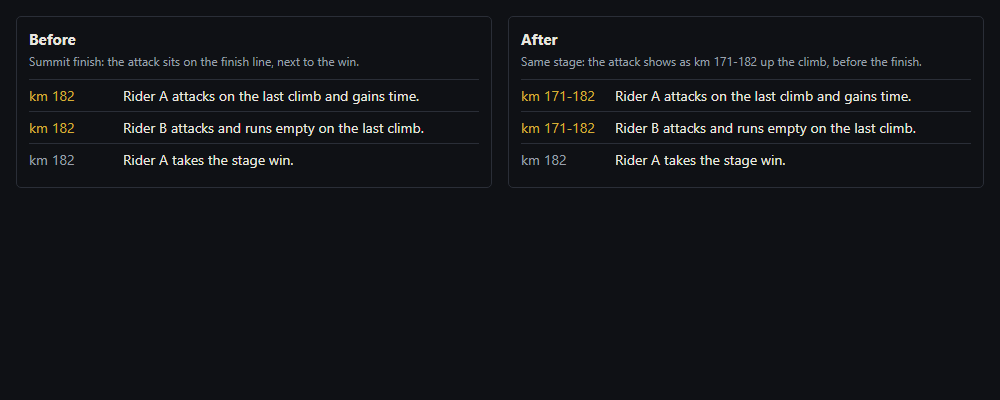
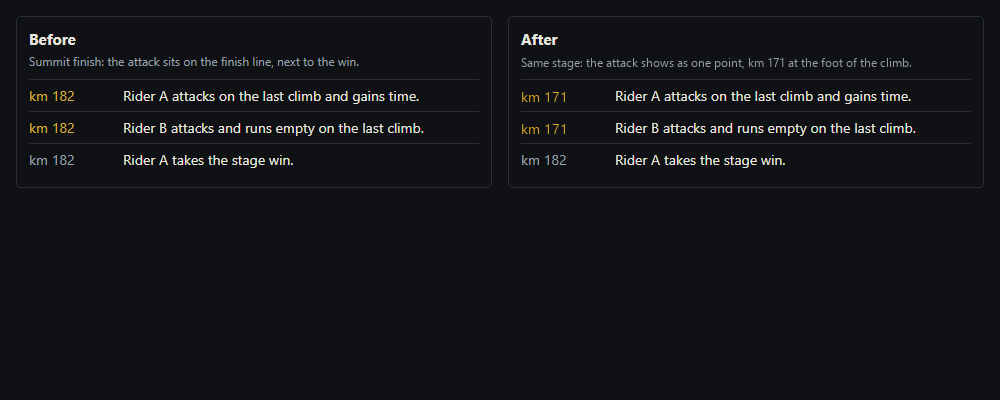
fix(race-film): stigningens angreb vises paa ét punkt (foden), aldrig som interval (Refs #7965)
Ejerens beslutning 12/11: ingen tekst i loebsfilmen vises som interval, kun
tidspunktet hvor handlingen skete. all_out_gain/all_out_cracked paa en
topankomst faar km = stigningens fod og intet km_span. recorded_km (toppen)
bevares til opgave-opslaget. Filmen har ingen loebstid pr. km, saa der vises
intet nyt tidsstempel. Andre linjers spaend (#6350) og mellemtider er uaendrede.

Changed region(s): [[0.527, 0.12, 0.93, 0.18], [0.527, 0.21, 0.589, 0.27], [0.527, 0.3, 0.589, 0.33]]

diff --git a/frontend/src/lib/stageTimelineKmSpan.test.ts b/frontend/src/lib/stageTimelineKmSpan.test.ts
@@ -6,7 +6,7 @@ import assert from "node:assert/strict";
 import { honestTimelineEvents, honestKmResolver, lossEntriesWithFilmKm, filmKmValue, exactEventKm } from "./stageTimelineKmSpan.ts";
 import { buildFilmTimeline, eventsPlayedUpTo } from "./stageTimelineFilm.js";
 import { catchActorCopy, findMorningCatch } from "./raceCatchActor.ts";
-import { buildOwnTimeLoss } from "./stageSplitTimes.ts";
+import { buildOwnTimeLoss, buildSplitTimes } from "./stageSplitTimes.ts";
 import { withEventPlaces } from "../../../backend/lib/raceTimeline.js";
 
 type Ev = { km: number; type: string; params?: Record<string, unknown>; exact_km?: number; recorded_km?: number; km_span?: { from: number; to: number } };
@@ -267,22 +267,24 @@ const climbFinish: Ev[] = [
 ];
 const finalClimb = [{ crest_km: 182, length_km: 11 }];
 
-test("#7965 an all-out line stamped on a summit finish shows the climb as a span, before the finish", () => {
+test("#7965 an all-out line stamped on a summit finish shows ONE point at the foot of the climb (never a span), before the finish", () => {
   const shown = honestTimelineEvents(climbFinish, { ...V4, climbs: finalClimb }) as Ev[];
   for (const type of ["all_out_gain", "all_out_cracked"]) {
     const line = shown.find((e) => e.type === type)!;
-    assert.deepEqual(line.km_span, { from: 171, to: 182 });
-    assert.equal(line.km, 171);
-    assert.equal(line.recorded_km, 182);
-    assert.equal(filmKmValue(line, fmt), "171-182");
+    assert.equal(line.km_span, undefined, "no interval (owner 12/11)");
+    assert.equal(line.km, 171, "km = foot = crest_km - length_km");
+    assert.equal(line.recorded_km, 182, "the engine's summit km is kept for the task lookup");
+    assert.equal(filmKmValue(line, fmt), "171");
     assert.ok(shown.indexOf(line) < shown.findIndex((e) => e.type === "finish"));
   }
 });
 
-test("#7965 without the climb in the profile the previous known point opens the span", () => {
+test("#7965 without the climb in the profile the previous known point is the single point", () => {
   const shown = honestTimelineEvents(climbFinish, V4) as Ev[];
   const line = shown.find((e) => e.type === "all_out_gain")!;
-  assert.deepEqual(line.km_span, { from: 150, to: 182 });
+  assert.equal(line.km_span, undefined);
+  assert.equal(line.km, 150);
+  assert.equal(filmKmValue(line, fmt), "150");
 });
 
 test("#7965 a stage whose profile has no climb ending at the finish is unchanged", () => {
@@ -316,10 +318,22 @@ test("#7965 other event types and the rest of a summit finish stay as they were"
 test("#7965 the resolver (split times, story) gives the same km as the film line", () => {
   const resolve = honestKmResolver(climbFinish, { ...V4, climbs: finalClimb });
   const shown = resolve(climbFinish[4]);
-  assert.deepEqual(shown.km_span, { from: 171, to: 182 });
+  assert.equal(shown.km_span, undefined);
+  assert.equal(shown.km, 171);
 });
 
-test("#7965 the loss list shows the same span as the film line", () => {
+test("#7965 the loss list shows the same single point as the film line", () => {
   const entries = lossEntriesWithFilmKm(climbFinish, [{ type: "event", km: 182, riderId: "r2", event: climbFinish[4] }], { ...V4, climbs: finalClimb });
-  assert.deepEqual(entries[0].shown.km_span, { from: 171, to: 182 });
+  assert.equal(entries[0].shown.km_span, undefined);
+  assert.equal(entries[0].shown.km, 171);
+});
+
+test("#7965 split times (mellemtider) are unchanged: the display change never touches the raw timeline", () => {
+  const before = JSON.parse(JSON.stringify(buildSplitTimes(climbFinish as never, { ownRiderIds: [] })));
+  const snapshot = JSON.parse(JSON.stringify(climbFinish));
+  honestTimelineEvents(climbFinish, { ...V4, climbs: finalClimb });
+  honestKmResolver(climbFinish, { ...V4, climbs: finalClimb })(climbFinish[3]);
+  assert.deepEqual(climbFinish, snapshot, "raw events are not mutated");
+  assert.deepEqual(buildSplitTimes(climbFinish as never, { ownRiderIds: [] }), before);
+  assert.ok(before.every((p: { km: number }) => p.km !== 171), "no split point at the foot");
 });

diff --git a/frontend/src/lib/stageTimelineKmSpan.ts b/frontend/src/lib/stageTimelineKmSpan.ts
@@ -12,7 +12,9 @@
 // #7965: motoren stempler "alt ud"/angreb på en stigning (all_out_gain,
 // all_out_cracked) ved stigningens SLUT. Ved en topankomst er det målstregen,
 // så linjen stod på stregen, selv om angrebet skete op ad stigningen. Filmen
-// viser den som et ærligt spænd fra foden til toppen. Kun visning.
+// viser den på ÉT punkt, stigningens fod (aldrig som interval, ejer 12/11):
+// der hvor handlingen starter. Kendes foden ikke, bruges forrige kendte punkt.
+// Filmen har ingen løbstid pr. km, så der vises intet nyt klokkeslæt. Kun visning.
 //
 // #6294: samme indgang fjerner de "indhentninger" som var en samling af
 // udbruddet (withoutRegroupCatches), så film, mærker og gemte flag fortæller
@@ -134,7 +136,8 @@ function spanResolver(kept: readonly SpanTimelineEvent[], { timelineVersion = nu
       if (stamped != null && stamped >= finishKm) {
         // Kender profilen stigninger, kræves en der slutter her (ellers er det ikke en topankomst).
         const from = climbs ? climbFoot(stamped) : previousAnchor(stamped);
-        if (from != null && from < stamped) return { event: { ...event, km: from, recorded_km: stamped, km_span: { from, to: stamped } }, spanned: true };
+        // Ét punkt: km = foden, INTET km_span. recorded_km (toppen) bevares til opgave-opslaget.
+        if (from != null && from < stamped) return { event: { ...event, km: from, recorded_km: stamped }, spanned: true };
       }
     }
     const exact = exactEventKm(event);

diff --git a/frontend/src/lib/stageTimelineFilm.test.js b/frontend/src/lib/stageTimelineFilm.test.js
@@ -2,7 +2,7 @@ import test from "node:test";
 import assert from "node:assert/strict";
 import {
   kmToX, xToKm, buildFilmTimeline, eventsPlayedUpTo, describeEvent, climbMarkerHeight, altitudeAtKm,
-  collectRiderIds, storyEventsWithCauses,
+  collectRiderIds, storyEventsWithCauses, filmKmValue,
 } from "./stageTimelineFilm.js";
 import { buildProfileSeries } from "./stageRouteProfile.js";
 import {
@@ -712,11 +712,12 @@ const SUMMIT_EVENTS = [
 ];
 const SUMMIT_CLIMBS = [{ crest_km: 182, length_km: 11 }];
 
-test("#7965: filmen viser angrebet som km A-B foer maalgangen, og teksten er stadig Angrib", () => {
+test("#7965: filmen viser angrebet paa ET punkt (foden) foer maalgangen, aldrig som interval, og teksten er stadig Angrib", () => {
   const built = buildFilmTimeline({ events: SUMMIT_EVENTS, distanceKm: 182, timelineVersion: 2, climbs: SUMMIT_CLIMBS });
   const line = /** @type {any} */ (built.events.find((e) => e.type === "all_out_gain"));
-  assert.deepEqual(line.km_span, { from: 171, to: 182 });
+  assert.equal(line.km_span, undefined);
   assert.equal(line.km, 171);
+  assert.equal(filmKmValue(line, (v) => String(v)), "171");
   assert.ok(built.events.indexOf(line) < built.events.findIndex((e) => e.type === "finish"));
   const feed = /** @type {any} */ (built.feedEvents.find((e) => e.type === "all_out_gain"));
   assert.equal(describeEvent(feed, { riderNameById: riderNameByIdFixture() })?.key, "attack_gain");

diff --git a/docs/RACE_ENGINE_RULES.md b/docs/RACE_ENGINE_RULES.md
@@ -94,7 +94,7 @@ Kalibreringen bor ét sted (`SHARED_TIME_MODEL_V2_TUNING` i `mechanics/timeModel
 - **Klatrehullets evne-vægt** kan afvige pr. etapeprofil (højere fart og mere læ på kuperede/rullende stigninger).
 - **Præcist kontaktsted (#6329):** en fysisk fangst fundet af kontaktafstemningen (`mechanics/descentCrossing.ts`) placeres, hvor de to liniers lineære ankomstforskel bliver nul mellem segmentets indgang og den accepterede bevægelse; hændelsens `km` er dette sted. Kontakt A (næste checkpoint) er fallback, når endepunkterne ikke beskriver fangsten (angreb født inde i intervallet, jagtgruppen var ikke bagved ved indgangen). En fangst M5's jagtmodel selv rapporterer, beholder checkpointet som `km` og får sit kontaktsted i `exact_km` (næste punkt). Tider og medlemskab er uændrede.
 - **Hændelser læses som et løb live (`exact_km`/`exact_time`, `exactPlace.ts`):** hver hændelse på etapen har `params.exact_km`, stedet hvor den skete (2 decimaler, inden for sit eget segment, aldrig efter checkpointet), og `params.exact_time` (sekunder fra start for de ryttere/den gruppe hændelsen handler om, på det sted), hvor hændelsen nævner ryttere eller en gruppe. Hver linje kører med konstant fart gennem segmentet på den fælles gruppeklokke (samme grundlag som #6329). Et split/en selektion, en udbryder sat af, et angreb og det afgørende ryk sker, hvor hullet mellem de to linjer først når et synligt hul (motorens samme-gruppe-vindue). En fangst/samling sker, hvor hullet bliver nul; M5's jagtmodel placerer sin egen fangst der, hvor jagtens lukning (egen jagt, derefter feltets gulv, skaleret til den faktisk anvendte lukning) når hullet ved jagtens start, og samlingen af den fangne gruppe følger fangstens sted. Punkthændelser (start, udbruddets dannelse, passager, uheld, gap-målinger, holdbeslutninger, målet) står allerede på deres km. Kan endepunkterne ikke beskrive øjeblikket (linjerne var allerede adskilt ved indgangen eller aldrig synligt adskilt ved udgangen), er checkpointet det ærlige svar. Et uheld har intet `exact_time` (rytterens egen tid indeholder stoppet). `event.km` er fortsat motorens sorteringsnøgle (validatorer og medlemskabsreglen); visningen skal læse `exact_km`, når det findes (filmens del er ikke en del af motoren), og ældre revisioner har det aldrig.
-- **Undtagelse for stigningens opsummering (#7965, kun visning):** `all_out_gain`/`all_out_cracked` stemples ved stigningens slut (`exact_km` = km), som ved en topankomst er målstregen. Filmen, historien og tabslisten viser dem som et spænd fra stigningens fod (profilens top minus længde) til toppen, før målgangen, ikke på stregen. Kendes stigningen ikke, bruges forrige kendte punkt; har profilen stigninger men ingen slutter her, vises linjen uændret. Opgaveopslaget (Angrib/Alt ud) sker stadig ved toppen (`recorded_km`). Motor og gemte tidslinjer er uændrede.
+- **Undtagelse for stigningens opsummering (#7965, kun visning):** `all_out_gain`/`all_out_cracked` stemples ved stigningens slut (`exact_km` = km), som ved en topankomst er målstregen. Filmen, historien og tabslisten viser dem på ét punkt, stigningens fod (profilens top minus længde), før målgangen, aldrig som interval og ikke på stregen (ejer 12/11). Kendes stigningen ikke, bruges forrige kendte punkt; har profilen stigninger men ingen slutter her, vises linjen uændret. Opgaveopslaget (Angrib/Alt ud) sker stadig ved toppen (`recorded_km`). Motor og gemte tidslinjer er uændrede.
 - **Samling i udbruddet er ikke en fangst:** når begge sider af en kontakt kun er ryttere fra dagens udbrud (fx en afsat udbryder, eller en gruppe af dem der har mistet udbrudsoprindelsen ved en tidligere samling, der kører op til sit eget udbrud), udsendes ingen `breakaway_caught`; samlingen meldes stadig som `group_merged`. Kun hændelsen ændres, aldrig tider eller grupper (`mechanics/chaseGroup.ts` `isMorningRegroupCatch`).
 - **Udbrud holder hjem efter ejer-målene (#5578, ejer 8/10):** lad-gå-loftet er kalibreret pr. vejprofil (foran en nedkørselsfinale lidt mindre stramt), og favoritgruppen er stadig et felt der styrer udbruddet, når selektionen på stigningerne har gjort den lille. GC-reaktionen gælder kun hold med noget at forsvare (klassementets forreste og føreren); klassementets forreste er altid en trussel og slippes aldrig langt, mens en rytter længere nede kun er en rival, hvis han er mindst lige så stærk som holdets GC-rytter. Et farligt udbrud vokser aldrig forbi det forspring de bremsende hold tolererer. Aldrig en garanti: få ryttere ude har stadig lavere chance, og favoritterne afgør stadig de store bjergmål. Kalibreret mod udbrudsmålene (sejre pr. terræn, holder til mål mod legacy, bjerg foran favoritterne, ingen top-10 med 5 min) på Tour- og Giro-feltet; knapperne bor i `SHARED_TIME_MODEL_V2_TUNING`, tal i `balance-internals/5578-official-v2/` (privat).
 
